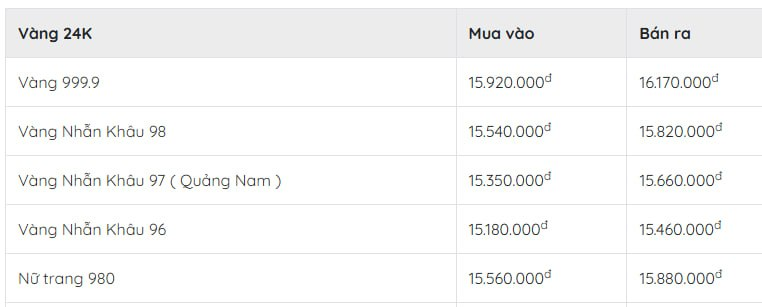
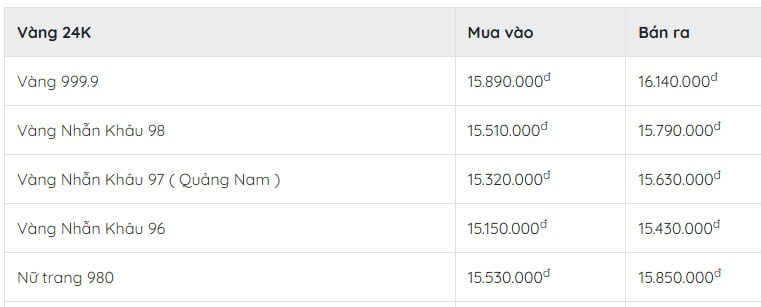
Update kim-khanh-viet-hung price image (11:33)

diff --git a/app/data/goldShops.ts b/app/data/goldShops.ts
@@ -26,7 +26,7 @@ export const GOLD_SHOPS: GoldShop[] = [
     name: "Kim Khánh Việt Hùng",
     location: "Đà Nẵng",
     image: "images/kim-khanh-viet-hung.jpg",
-    updatedAt: "09:43",
+    updatedAt: "11:33",
   },
   {
     id: "tru-cam-le",
